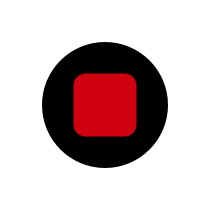
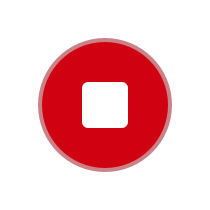
Swap out buttons on screens: main, recording, and confirm recording

Changed region(s): [[0.1714, 0.1714, 0.8286, 0.8286]]

diff --git a/components/captionScene.js b/components/captionScene.js
@@ -187,7 +187,7 @@ class Caption extends Component {
           : this.state.stoppedRecording ? // if recording and done, show cancel button
             <View style={styles.topRow}>
               <TouchableHighlight onPress={this._cancel.bind(this)}>
-                <Image source={require('../images/Cancel.png')}/>
+                <Image source={require('../images/GoScreenLeft.png')}/>
               </TouchableHighlight>
             </View>
           : // default: show top bar
